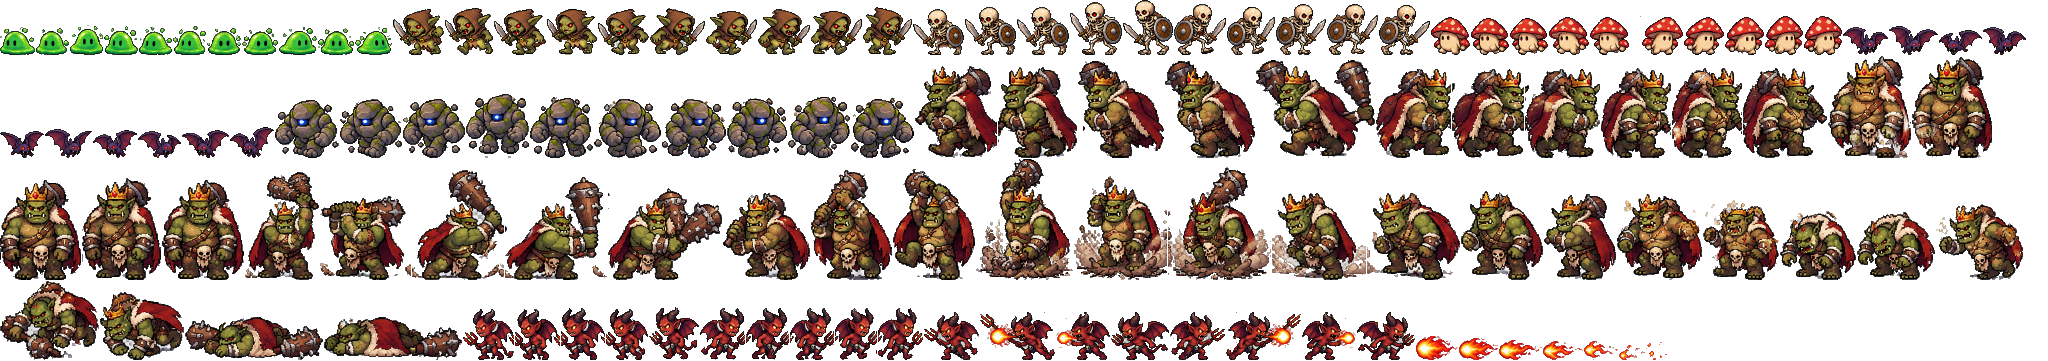
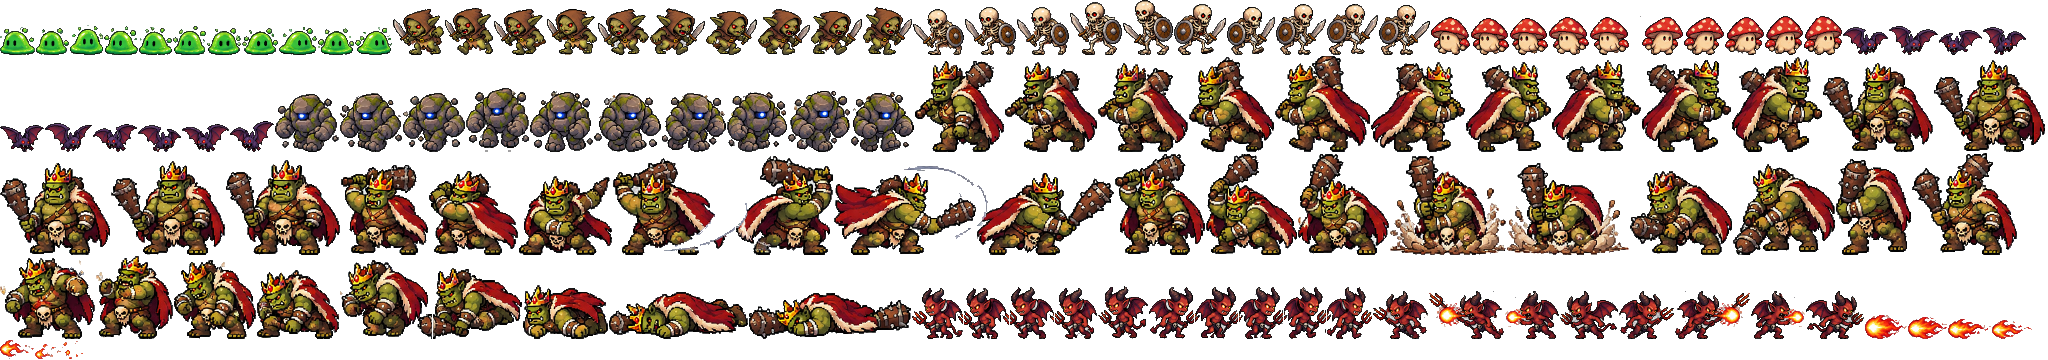
Updated Ogre King animation sheet
New tools/ogre.png: 5-frame walks and idle, a 7-frame horizontal swing (used
while charging), a 9-frame smash, 4-frame flinch and 5-frame death. The smash
now lands on its 4th frame.

Claude-Session: https://claude.ai/code/session_01FFhEA1UyqBRgv5VPwuY3ib

diff --git a/js/mob-frames.js b/js/mob-frames.js
@@ -1,3 +1,3 @@
 // Generated from tools/mobs.png by tools/build-mobs.py: [x, y, w, h, anchorX] per frame,
 // at twice game size (drawn at half size).
-export const MOB_FRAMES = {"slime": {"left": [[0, 27, 35, 28, 17], [36, 28, 33, 27, 15], [70, 25, 33, 30, 16], [104, 26, 34, 29, 16], [139, 27, 33, 28, 16], [173, 26, 33, 29, 16]], "right": [[207, 28, 34, 27, 16], [242, 28, 36, 27, 18], [279, 27, 38, 28, 18], [318, 28, 36, 27, 18], [355, 27, 37, 28, 18]]}, "goblin": {"left": [[393, 9, 51, 46, 31], [445, 8, 48, 47, 31], [494, 9, 52, 46, 29], [547, 9, 50, 46, 28], [598, 9, 51, 46, 27]], "right": [[650, 8, 55, 47, 21], [706, 11, 51, 44, 22], [758, 9, 52, 46, 22], [811, 11, 51, 44, 17], [863, 7, 49, 48, 19]]}, "skeleton": {"left": [[913, 9, 51, 46, 31], [965, 7, 51, 48, 32], [1017, 7, 52, 48, 31], [1070, 2, 52, 53, 28], [1123, 0, 50, 55, 29]], "right": [[1174, 4, 52, 51, 21], [1227, 7, 48, 48, 20], [1276, 4, 50, 51, 20], [1327, 4, 51, 51, 20], [1379, 5, 51, 50, 18]]}, "shroomling": {"left": [[1431, 17, 39, 38, 17], [1471, 18, 38, 37, 20], [1510, 18, 38, 37, 20], [1549, 17, 40, 38, 19], [1590, 16, 51, 39, 21]], "right": [[1642, 17, 41, 38, 19], [1684, 17, 40, 38, 19], [1725, 17, 39, 38, 17], [1765, 16, 38, 39, 18], [1804, 16, 38, 39, 17]]}, "bat": {"left": [[1843, 27, 45, 28, 23], [1889, 26, 49, 29, 21], [1939, 30, 43, 25, 18], [1983, 27, 43, 28, 18], [0, 131, 44, 27, 22]], "right": [[45, 129, 47, 29, 24], [93, 130, 44, 28, 24], [138, 131, 43, 27, 22], [182, 130, 47, 28, 24], [230, 127, 44, 31, 22]]}, "golem": {"left": [[275, 100, 64, 58, 34], [340, 99, 62, 59, 34], [403, 99, 62, 59, 29], [466, 94, 63, 64, 31], [530, 97, 63, 61, 34]], "right": [[594, 99, 67, 59, 32], [662, 99, 64, 59, 27], [727, 98, 60, 60, 24], [788, 97, 62, 61, 27], [851, 98, 63, 60, 28]]}, "ogre": {"left": [[915, 66, 82, 92, 44], [998, 67, 79, 91, 41], [1078, 61, 86, 97, 41], [1165, 61, 90, 97, 53], [1256, 60, 119, 98, 63]], "right": [[1376, 69, 75, 89, 39], [1452, 69, 72, 89, 39], [1525, 69, 75, 89, 39], [1601, 68, 70, 90, 36], [1672, 68, 70, 90, 34], [1743, 68, 84, 90, 41]], "idle": [[1828, 56, 83, 102, 48], [1912, 57, 80, 101, 41], [0, 180, 81, 100, 39], [82, 178, 79, 102, 38], [162, 180, 82, 100, 41]], "swing": [[245, 172, 74, 108, 33], [320, 196, 91, 84, 44], [412, 170, 92, 110, 45], [505, 177, 102, 103, 50], [608, 188, 114, 92, 37]], "smash": [[723, 193, 87, 87, 49], [811, 170, 81, 110, 43], [893, 169, 82, 111, 46], [976, 159, 97, 121, 48], [1074, 176, 93, 104, 49], [1168, 167, 103, 113, 52], [1272, 193, 94, 87, 54], [1367, 193, 93, 87, 53], [1461, 191, 82, 89, 57], [1544, 194, 72, 86, 36]], "hurt": [[1617, 194, 85, 86, 55], [1703, 200, 76, 80, 37], [1780, 211, 76, 69, 39], [1857, 212, 78, 68, 39]], "die": [[1936, 204, 87, 76, 54], [0, 281, 99, 79, 50], [100, 292, 84, 68, 39], [185, 317, 138, 43, 79], [324, 317, 138, 43, 88]]}, "imp": {"left": [[463, 309, 51, 51, 31], [515, 309, 45, 51, 20], [561, 308, 44, 52, 21], [606, 309, 42, 51, 22], [649, 307, 50, 53, 26]], "right": [[700, 308, 45, 52, 22], [746, 308, 43, 52, 17], [790, 308, 44, 52, 19], [835, 308, 42, 52, 18], [878, 308, 45, 52, 18]], "shootL": [[924, 312, 55, 48, 31], [980, 312, 75, 48, 56], [1056, 312, 54, 48, 35], [1111, 312, 58, 48, 29]], "shootR": [[1170, 312, 55, 48, 22], [1226, 312, 75, 48, 17], [1302, 312, 54, 48, 17], [1357, 312, 58, 48, 28]]}, "fireball": {"fly": [[1416, 336, 42, 24, 14], [1459, 338, 39, 22, 13], [1499, 340, 43, 20, 12], [1543, 341, 40, 19, 12]], "burst": [[1584, 341, 34, 19, 10], [1619, 345, 26, 15, 8], [1646, 342, 21, 18, 9]]}};
+export const MOB_FRAMES = {"slime": {"left": [[0, 27, 35, 28, 17], [36, 28, 33, 27, 15], [70, 25, 33, 30, 16], [104, 26, 34, 29, 16], [139, 27, 33, 28, 16], [173, 26, 33, 29, 16]], "right": [[207, 28, 34, 27, 16], [242, 28, 36, 27, 18], [279, 27, 38, 28, 18], [318, 28, 36, 27, 18], [355, 27, 37, 28, 18]]}, "goblin": {"left": [[393, 9, 51, 46, 31], [445, 8, 48, 47, 31], [494, 9, 52, 46, 29], [547, 9, 50, 46, 28], [598, 9, 51, 46, 27]], "right": [[650, 8, 55, 47, 21], [706, 11, 51, 44, 22], [758, 9, 52, 46, 22], [811, 11, 51, 44, 17], [863, 7, 49, 48, 19]]}, "skeleton": {"left": [[913, 9, 51, 46, 31], [965, 7, 51, 48, 32], [1017, 7, 52, 48, 31], [1070, 2, 52, 53, 28], [1123, 0, 50, 55, 29]], "right": [[1174, 4, 52, 51, 21], [1227, 7, 48, 48, 20], [1276, 4, 50, 51, 20], [1327, 4, 51, 51, 20], [1379, 5, 51, 50, 18]]}, "shroomling": {"left": [[1431, 17, 39, 38, 17], [1471, 18, 38, 37, 20], [1510, 18, 38, 37, 20], [1549, 17, 40, 38, 19], [1590, 16, 51, 39, 21]], "right": [[1642, 17, 41, 38, 19], [1684, 17, 40, 38, 19], [1725, 17, 39, 38, 17], [1765, 16, 38, 39, 18], [1804, 16, 38, 39, 17]]}, "bat": {"left": [[1843, 27, 45, 28, 23], [1889, 26, 49, 29, 21], [1939, 30, 43, 25, 18], [1983, 27, 43, 28, 18], [0, 125, 44, 27, 22]], "right": [[45, 123, 47, 29, 24], [93, 124, 44, 28, 24], [138, 125, 43, 27, 22], [182, 124, 47, 28, 24], [230, 121, 44, 31, 22]]}, "golem": {"left": [[275, 94, 64, 58, 34], [340, 93, 62, 59, 34], [403, 93, 62, 59, 29], [466, 88, 63, 64, 31], [530, 91, 63, 61, 34]], "right": [[594, 93, 67, 59, 32], [662, 93, 64, 59, 27], [727, 92, 60, 60, 24], [788, 91, 62, 61, 27], [851, 92, 63, 60, 28]]}, "ogre": {"left": [[915, 61, 89, 91, 45], [1005, 62, 92, 90, 50], [1098, 63, 90, 89, 46], [1189, 57, 85, 95, 45], [1275, 56, 95, 96, 46]], "right": [[1371, 62, 94, 90, 49], [1466, 62, 85, 90, 41], [1552, 60, 89, 92, 43], [1642, 60, 89, 92, 41], [1732, 57, 90, 95, 40]], "idle": [[1823, 63, 110, 89, 59], [1934, 60, 111, 92, 59], [0, 163, 110, 92, 59], [111, 161, 114, 94, 64], [226, 160, 114, 95, 60]], "swing": [[341, 165, 87, 90, 43], [429, 171, 89, 84, 38], [519, 176, 93, 79, 38], [613, 158, 122, 97, 47], [736, 156, 97, 99, 54], [834, 166, 142, 89, 53], [977, 173, 137, 82, 47]], "smash": [[1115, 154, 90, 101, 42], [1206, 154, 91, 101, 39], [1298, 154, 91, 101, 44], [1390, 156, 116, 99, 59], [1507, 163, 122, 92, 56], [1630, 171, 102, 84, 56], [1733, 164, 102, 91, 42], [1836, 159, 75, 96, 36], [1912, 153, 105, 102, 59]], "hurt": [[0, 258, 95, 81, 49], [96, 256, 77, 83, 32], [174, 260, 82, 79, 42], [257, 270, 82, 69, 37]], "die": [[340, 260, 92, 79, 59], [433, 268, 89, 71, 16], [523, 285, 85, 54, 37], [609, 292, 139, 47, 59], [749, 293, 162, 46, 41]]}, "imp": {"left": [[912, 288, 51, 51, 31], [964, 288, 45, 51, 20], [1010, 287, 44, 52, 21], [1055, 288, 42, 51, 22], [1098, 286, 50, 53, 26]], "right": [[1149, 287, 45, 52, 22], [1195, 287, 43, 52, 17], [1239, 287, 44, 52, 19], [1284, 287, 42, 52, 18], [1327, 287, 45, 52, 18]], "shootL": [[1373, 291, 55, 48, 31], [1429, 291, 75, 48, 56], [1505, 291, 54, 48, 35], [1560, 291, 58, 48, 29]], "shootR": [[1619, 291, 55, 48, 22], [1675, 291, 75, 48, 17], [1751, 291, 54, 48, 17], [1806, 291, 58, 48, 28]]}, "fireball": {"fly": [[1865, 315, 42, 24, 14], [1908, 317, 39, 22, 13], [1948, 319, 43, 20, 12], [1992, 320, 40, 19, 12]], "burst": [[0, 340, 34, 19, 10], [35, 344, 26, 15, 8], [62, 341, 21, 18, 9]]}};

diff --git a/js/sim.js b/js/sim.js
@@ -50,7 +50,7 @@ export const slashCooldown = (L) => SLASH_CD - 0.03 * ((L || 1) - 1);
 // Giant Sword power-up: a huge blade spins around you for a few seconds.
 export const GIANT_TIME = 5;
 // The Ogre King's ground smash: how long it takes, when in it the club lands, and its reach
-export const SMASH_TIME = 1.2, SMASH_HIT = 0.6, SMASH_R = 2.8;
+export const SMASH_TIME = 1.2, SMASH_HIT = 0.75, SMASH_R = 2.8; // the club lands on the 4th of 9 frames
 export const CHARGE_TIME = 0.7;
 // Mystery Box: spend gold, it spins, and out comes the Giant Sword.
 export const BOX_COST = 30;

diff --git a/tools/build-mobs.py b/tools/build-mobs.py
@@ -109,13 +109,13 @@ HEIGHT = {name: h for name, (_, _, h) in ROWS.items()}
 # each animation is (rows y0-y1, x positions of the cuts between frames).
 EXTRA = [
     ('tools/ogre.png', 'ogre', 46, {
-        'left': ((95, 275), [10, 152, 287, 405, 533, 740]),
-        'right': ((95, 275), [760, 890, 1012, 1140, 1260, 1380, 1528]),
-        'idle': ((320, 525), [15, 163, 300, 438, 571, 712]),
-        'swing': ((320, 525), [715, 848, 1005, 1162, 1328, 1528]),
-        'smash': ((565, 790), [12, 165, 305, 445, 600, 760, 935, 1095, 1255, 1402, 1530]),
-        'hurt': ((835, 995), [15, 165, 302, 437, 578]),
-        'die': ((835, 995), [578, 736, 906, 1050, 1287, 1530]),
+        'left': ((80, 240), [15, 162, 307, 456, 597, 755]),
+        'right': ((80, 240), [790, 945, 1075, 1213, 1350, 1500]),
+        'idle': ((268, 428), [15, 180, 345, 510, 692, 880]),
+        'swing': ((445, 612), [35, 200, 365, 535, 745, 905, 1135, 1360]),
+        'smash': ((640, 815), [35, 200, 365, 527, 715, 898, 1062, 1222, 1347, 1515]),
+        'hurt': ((855, 1000), [20, 180, 310, 455, 597]),
+        'die': ((855, 1000), [597, 745, 892, 1030, 1252, 1515]),
     }),
     ('tools/devil.png', 'imp', 26, {  # the Devil (it used to be an imp)
         'left': ((165, 352), [0, 172, 322, 467, 610, 768]),
